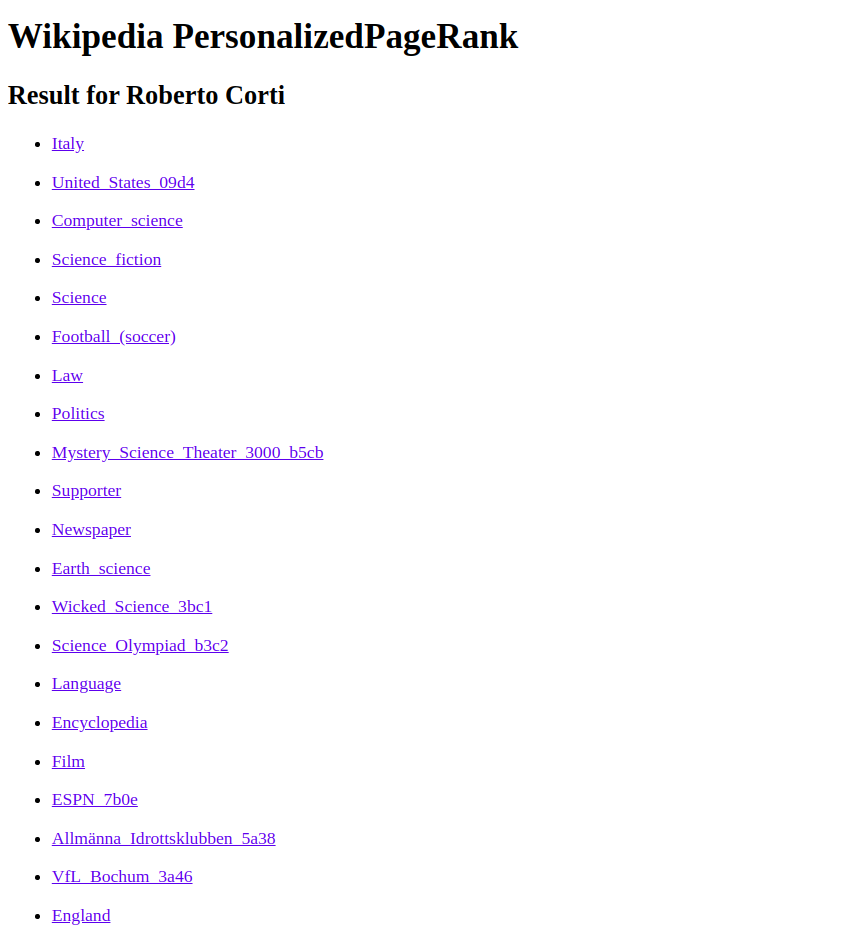
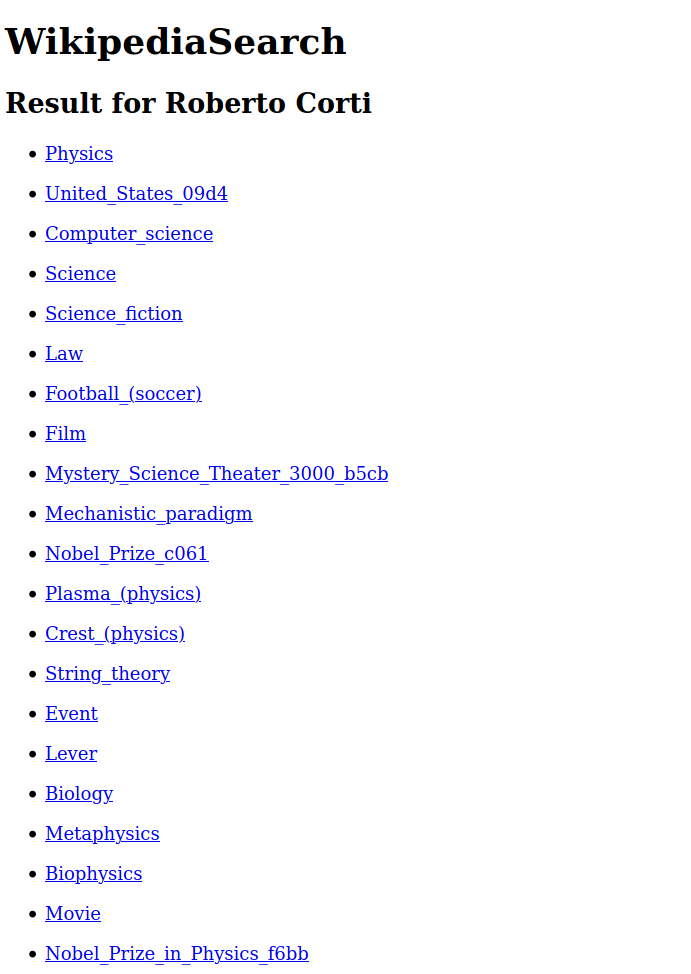
little fix on write_result()

Changed region(s): [[0.0, 0.0927, 0.5774, 0.9883], [0.0, 0.0, 0.6078, 0.0618], [0.3039, 0.8647, 0.3343, 0.8956]]

diff --git a/InformationRetrieval/Project/wikipediaSearch.py b/InformationRetrieval/Project/wikipediaSearch.py
@@ -24,7 +24,7 @@ surname = input('Surname: ')
 user = User(name=name, surname=surname)
 
 print(WIKIPEDIA_SEARCH_ASCII)
-print('Welcome to the WikipediaSearch!')
+print('Welcome to WikipediaSearch!')
 print(WIKIPEDIA_SEARCH_INTRO)
 print('Please '+name+ ' '+surname+', list your 5 main interests and rate each of them from 1 to 5\n')
 
@@ -45,9 +45,29 @@ p = PersonalizedPageRank(graphFile='data/wikipediaGraph_simple.json',
 
 system = IRsystem(user=user, pagerank=p)
 
+valid_yes = ['y', 'Y', 'yes', 'YES']
+valid_no  = ['n', 'N', 'no', 'NO']
+
+answer = input('Do you want to set the PageRank parameters? (default, alpha=0.2, epsilon=0.001) [y/n] ')
+
+while not(answer in valid_yes or answer in valid_no):
+    answer = input('Do you want to set the PageRank parameters? (default, alpha=0.2, epsilon=0.001) [y/n] ')
+
+if answer in valid_yes:
+    
+    epsilon = float(input('\nSet epsilon: '))
+    alpha = float(input('\nSet alpha: '))
+    while alpha < 0 or alpha > 1:
+        alpha = float(input('Not valid alpha!!!\nSet alpha: '))
+
+elif answer in valid_no:
+    epsilon = 0.001
+    alpha = 0.2
+
+
 print('\nLoading....\n')
 
-system.compute_final_pagerank(alpha=0.2, epsilon=0.001)
+system.compute_final_pagerank(alpha=alpha, epsilon=epsilon)
 
 system.write_result()
 

diff --git a/InformationRetrieval/Project/IRsystem.py b/InformationRetrieval/Project/IRsystem.py
@@ -41,12 +41,12 @@ class IRsystem():
                 #print(w, self.dict[w])
 
         with document(title='Result') as doc:
-            h1('Wikipedia PersonalizedPageRank')
+            h1('WikipediaSearch')
             h2('Result for '+self.user.name+' '+self.user.surname)
             for path in paths:
                 name = path[21:]
                 name = name.replace('.html','')
-                ul(li(a(name, href=path), __pretty=False))
+                ul(li(a(name, href=path), __pretty=True))
 
 
         with open('result/result_'+self.user.name+self.user.surname+'.html', 'w') as f:
